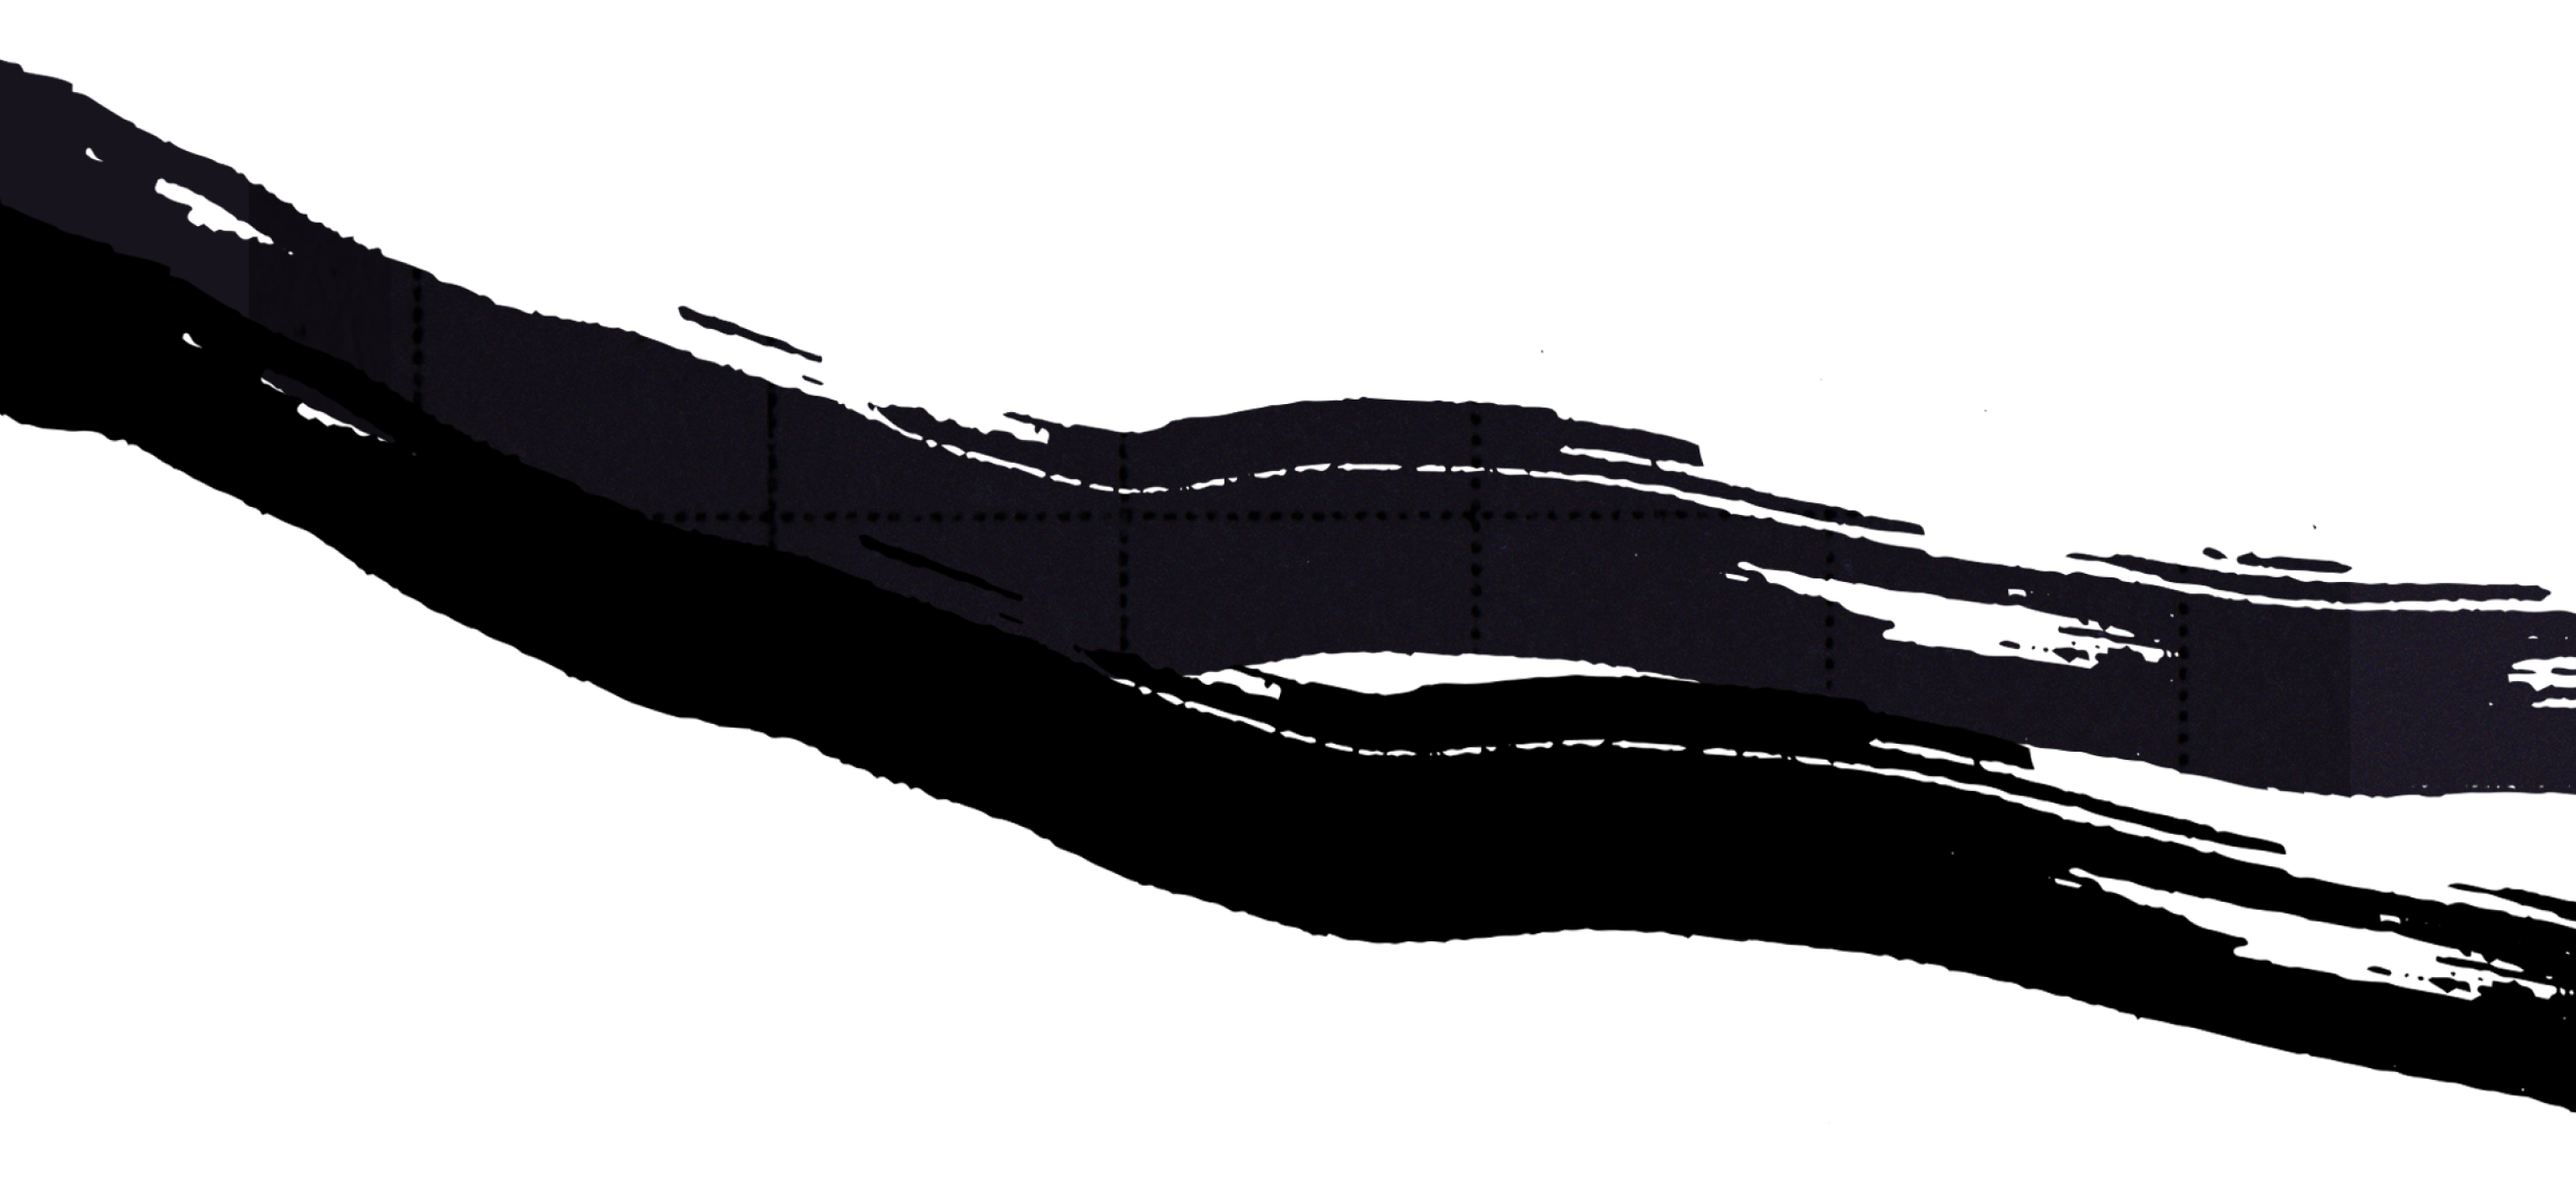
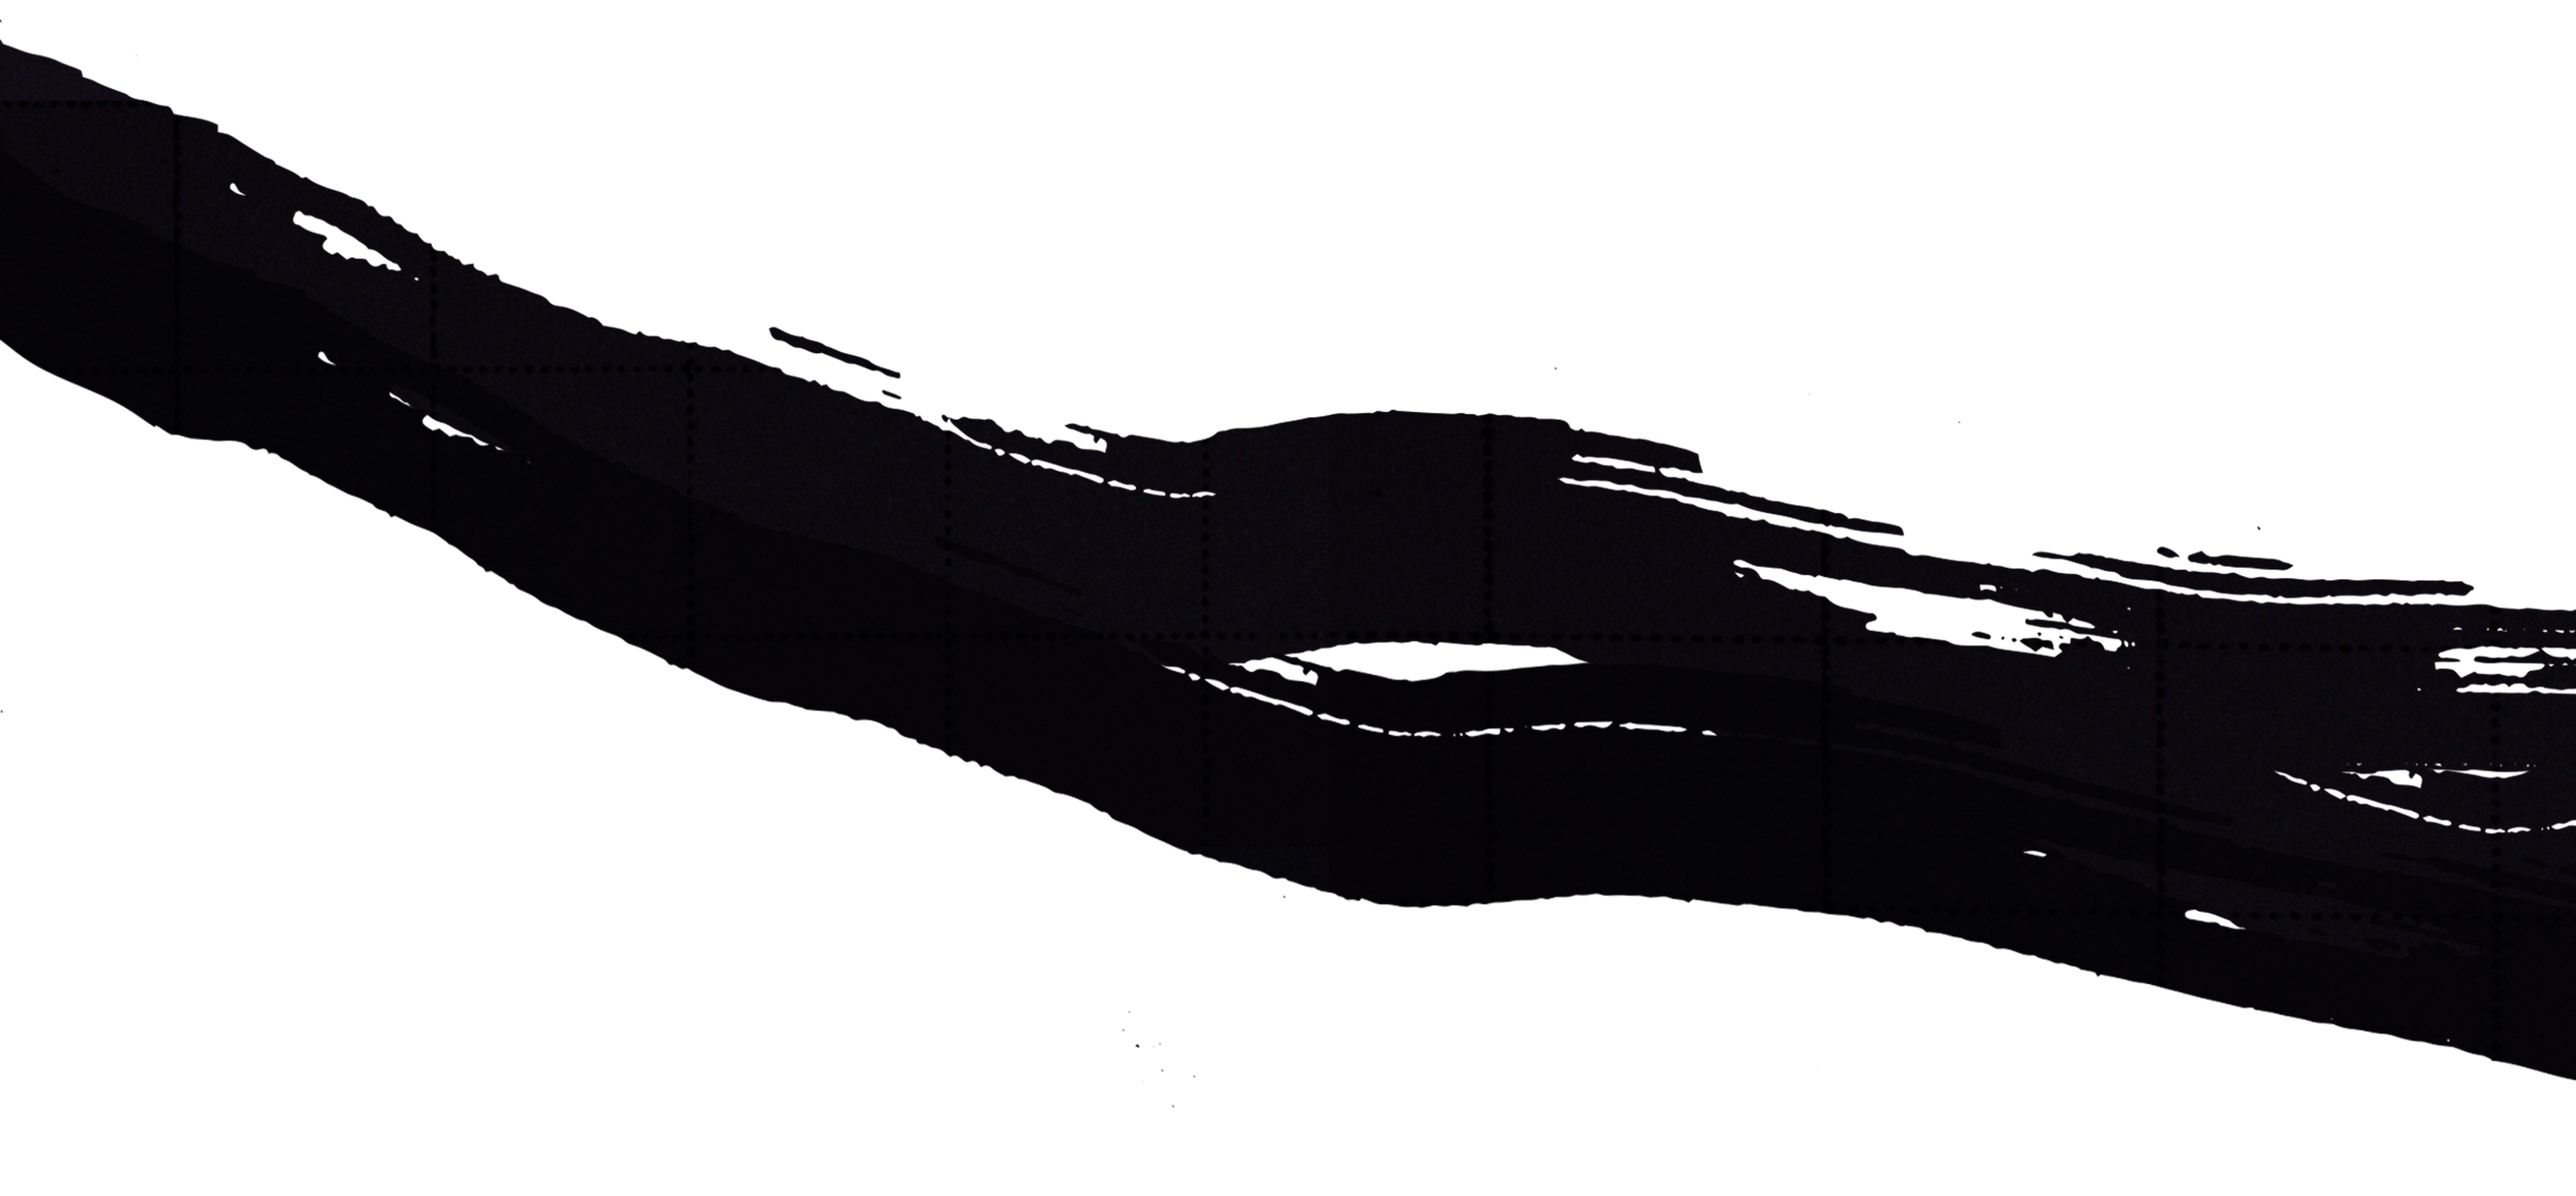
Add files via upload

Changed region(s): [[0.0, 0.0306, 1.0, 0.9499]]

diff --git a/uk/index.html b/uk/index.html
@@ -80,7 +80,7 @@ Government of Ukraine to save lives and support relief efforts. ">
                 <!-- hero image -->
                 <div class="img-area">
                     <picture>
-                        <source media="(min-width:767px)" srcset="../images/img.jpg">
+                        <source media="(min-width:767px)" srcset="../images/img.webp">
                         <img src="../images/img-mobile.jpg" alt="">
                     </picture>
                 </div>

diff --git a/css/main.css b/css/main.css
@@ -2456,6 +2456,11 @@ a:hover, a:focus {
   }
 }
 
+.dropdown-language ul {
+  left: auto;
+  right: 0;
+}
+
 .dropdown-language {
   float: right;
 }
@@ -2876,6 +2881,13 @@ blockquote cite {
   background-position: 50% 50%;
   background-repeat: no-repeat;
   background-size: cover;
+}
+@media (min-width: 1600px) {
+  .intro-holder:after {
+    background-image: url(../images/img1-large.png);
+    width: 3270px;
+    height: 1452px;
+  }
 }
 .intro-holder .meta {
   margin-left: auto;

diff --git a/es/index.html b/es/index.html
@@ -78,7 +78,7 @@
                 <!-- hero image -->
                 <div class="img-area">
                     <picture>
-                        <source media="(min-width:767px)" srcset="../images/img.jpg">
+                        <source media="(min-width:767px)" srcset="../images/img.webp">
                         <img src="../images/img-mobile.jpg" alt="">
                     </picture>
                 </div>

diff --git a/fr/index.html b/fr/index.html
@@ -93,7 +93,7 @@
                 <!-- hero image -->
                 <div class="img-area">
                     <picture>
-                        <source media="(min-width:767px)" srcset="../images/img.jpg">
+                        <source media="(min-width:767px)" srcset="../images/img.webp">
                         <img src="../images/img-mobile.jpg" alt="">
                     </picture>
                 </div>

diff --git a/index.html b/index.html
@@ -77,7 +77,7 @@
                 <!-- hero image -->
                 <div class="img-area">
                     <picture>
-                        <source media="(min-width:767px)" srcset="images/img.jpg">
+                        <source media="(min-width:767px)" srcset="images/img.webp">
                         <img src="images/img-mobile.jpg" alt="">
                     </picture>
                 </div>

diff --git a/scss/layout/_common.scss b/scss/layout/_common.scss
@@ -331,6 +331,10 @@ blockquote {
         background-position: 50% 50%;
         background-repeat: no-repeat;
         background-size: cover;
+        @include media('>=widescreen') {
+            background-image: url(../images/img1-large.png);
+            @include size(3270px, 1452px);
+        }
     }
     .meta {
         margin-left: auto;

diff --git a/scss/layout/_header.scss b/scss/layout/_header.scss
@@ -10,6 +10,13 @@
 }
 
 .dropdown-language {
+    ul {
+        left: auto;
+        right: 0;
+    }
+}
+
+.dropdown-language {
     float: right;
     ul {
         li {
